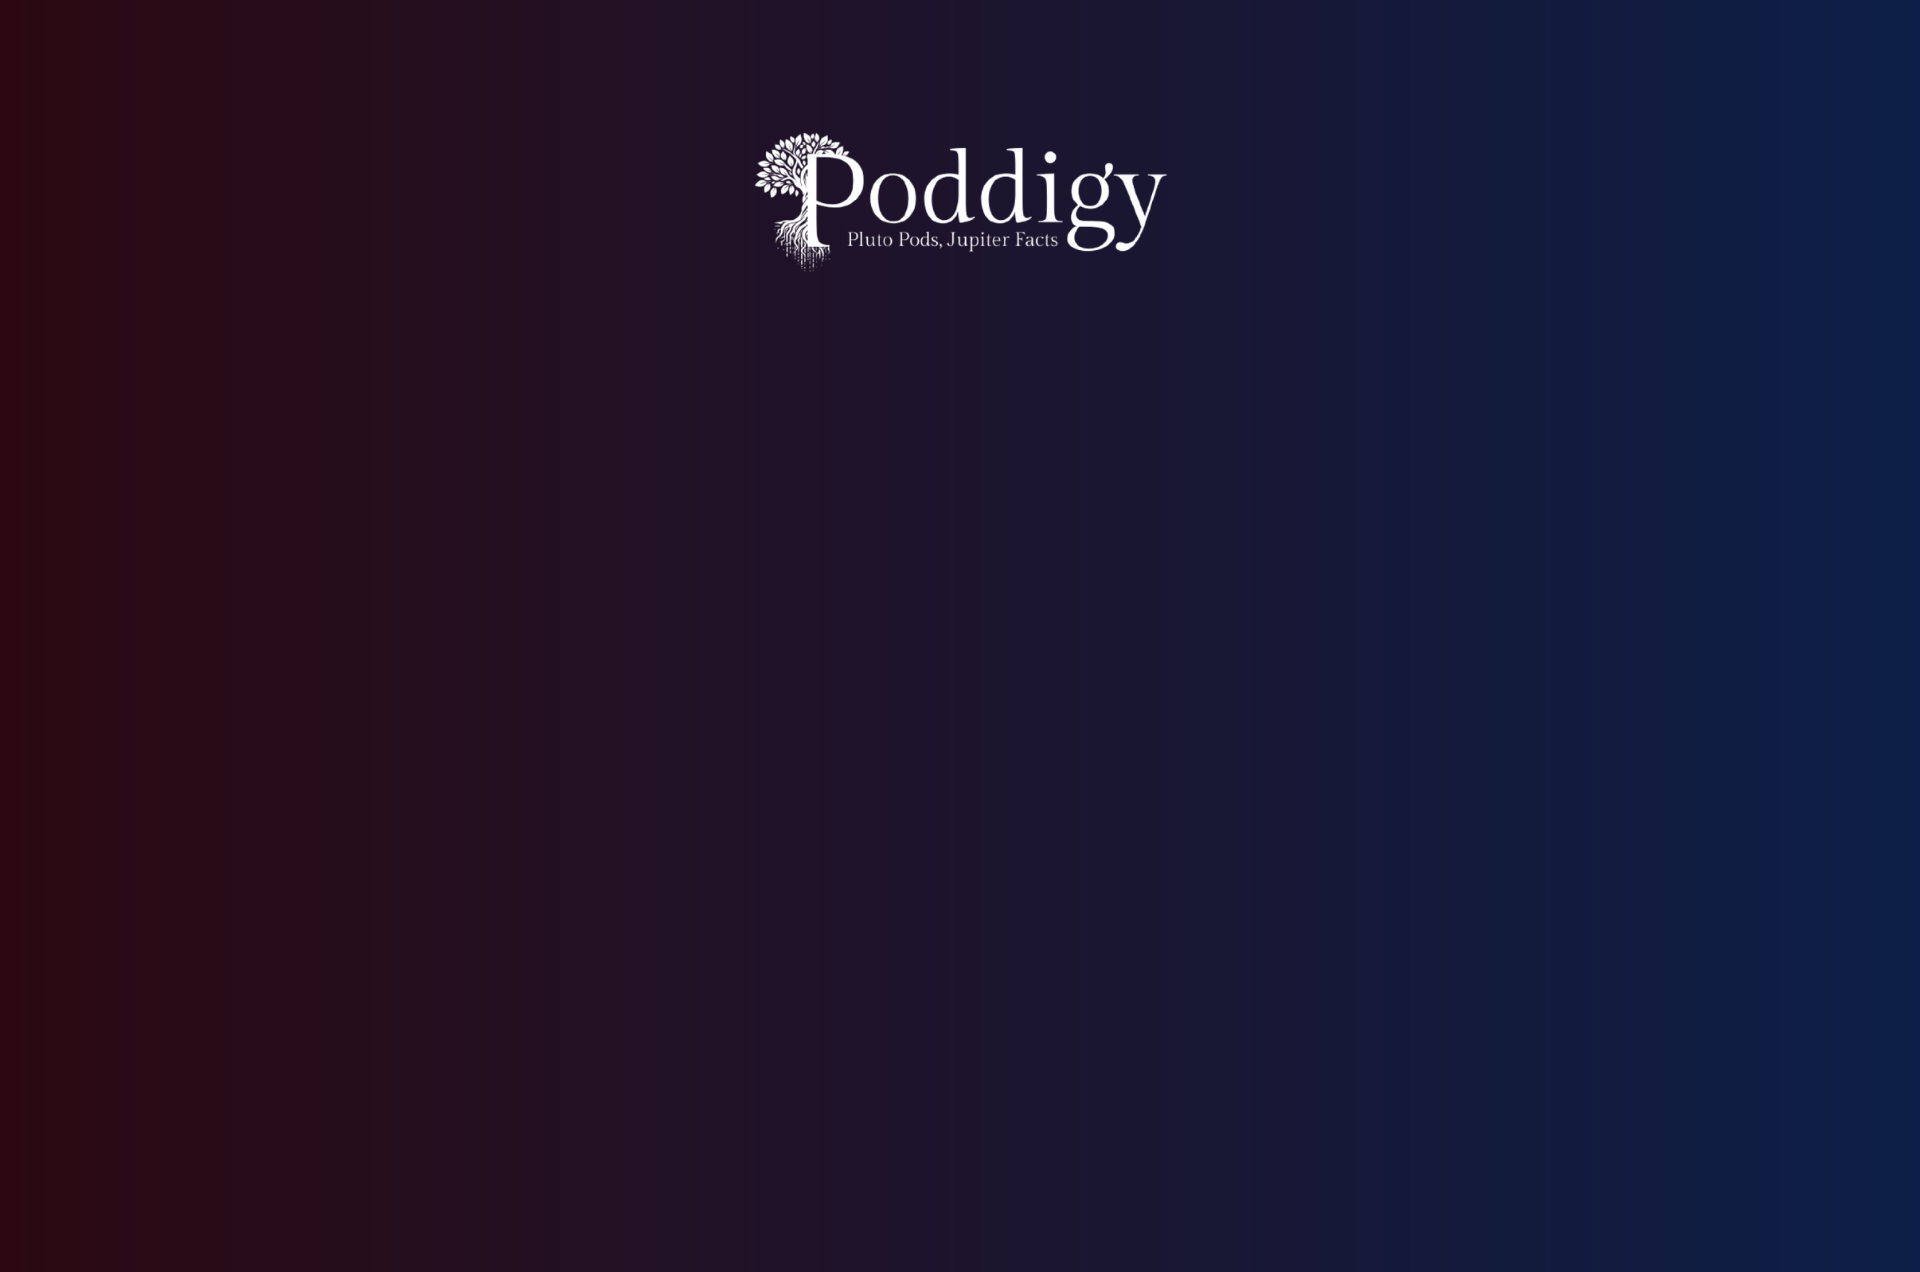
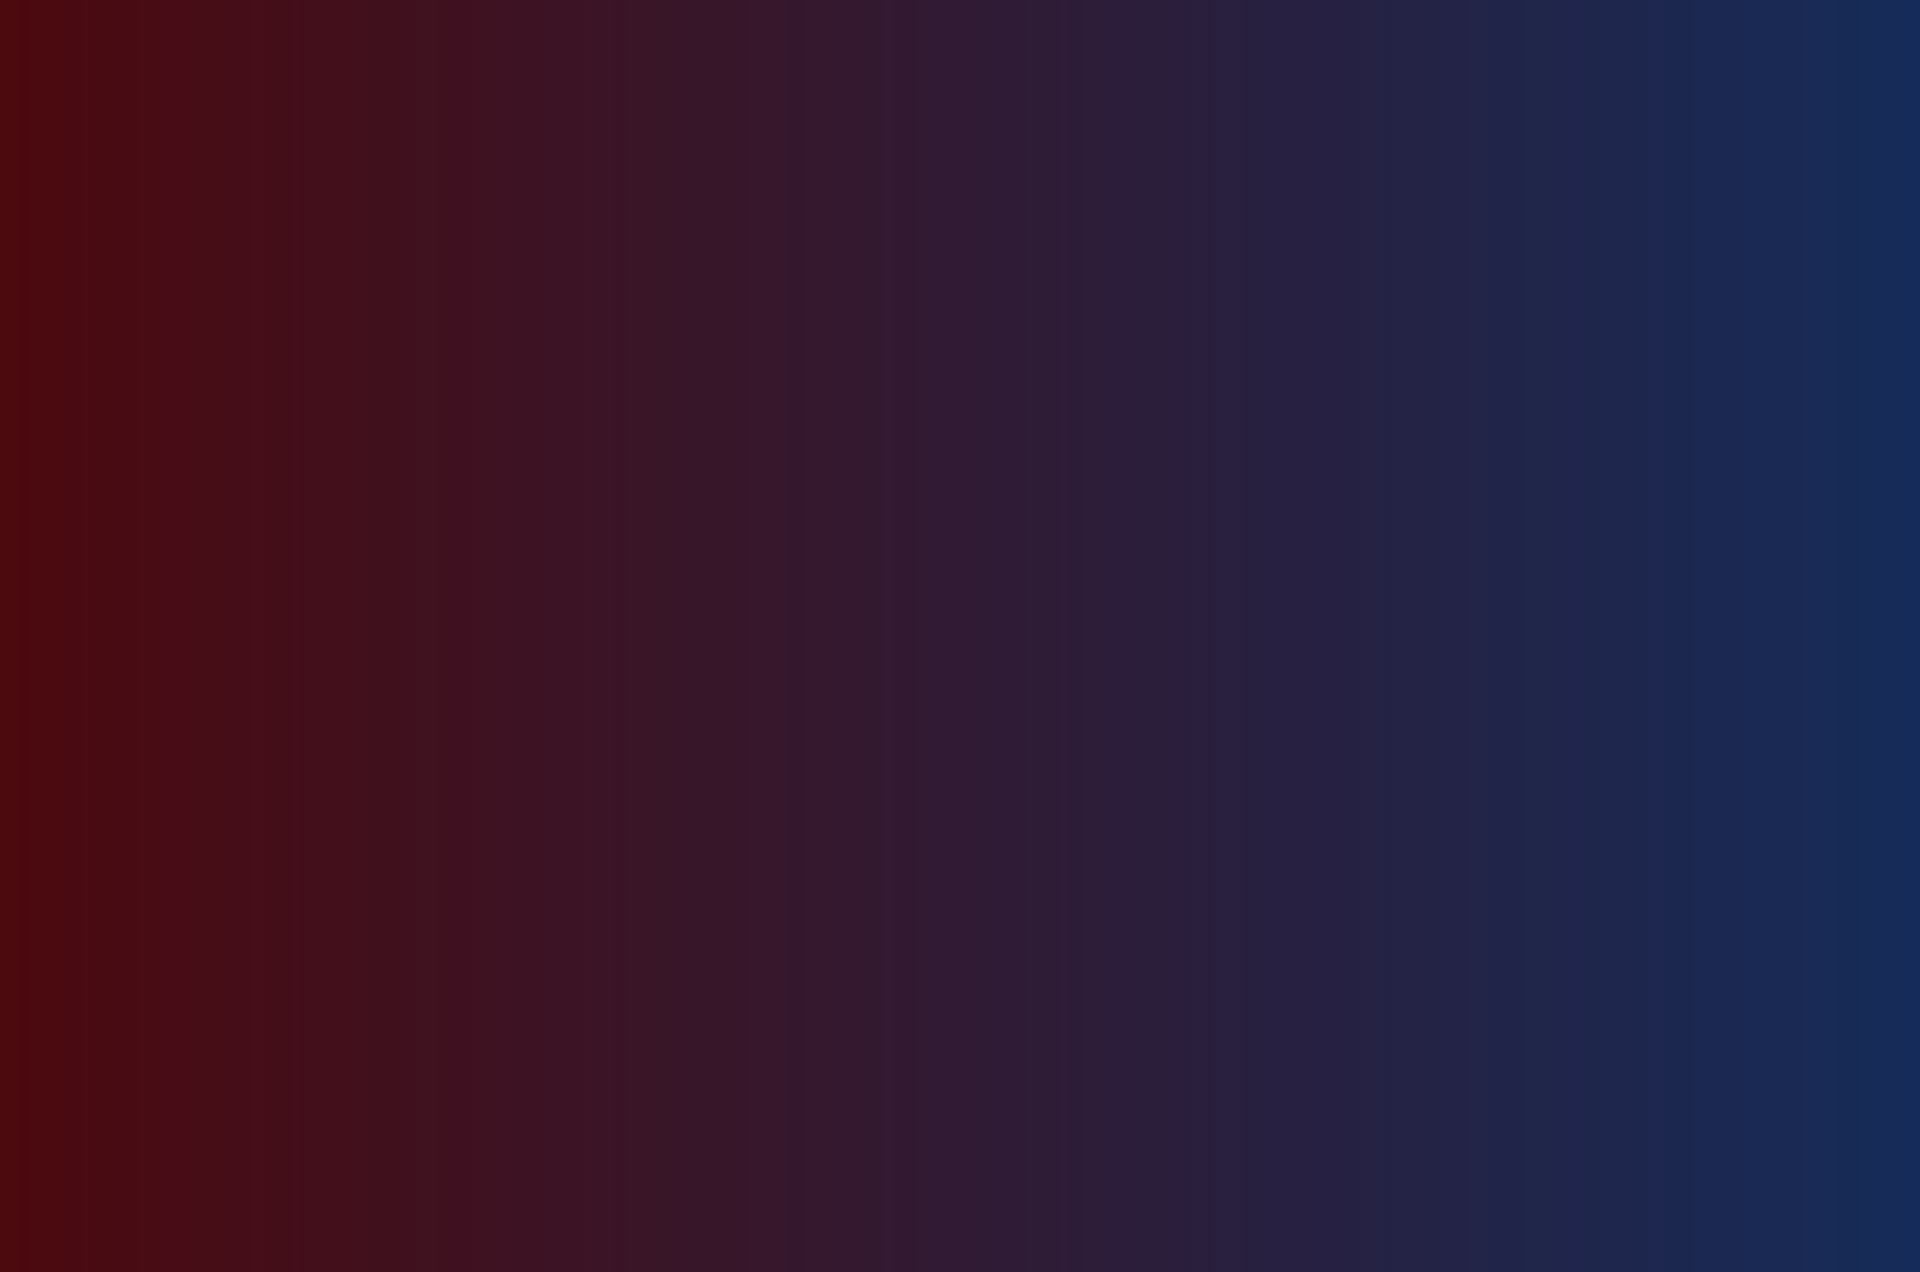
New Changes Staged

diff --git a/index.html b/index.html
@@ -45,29 +45,27 @@
 
     <!-- Hero Section -->
     <section id="hero" class="hero section transparent-background">
-
       <div class="container text-center" data-aos="fade-up" data-aos-delay="100">
         <div class="row justify-content-center">
           <div class="col-lg-8">
+            <!-- Add Logo Here -->
+            <img src="assets/img/logo4.png" alt="Poddigy Logo" class="hero-logo">
             <h2>We're Preparing Our Launchpad!<br></h2>
-            <!--<p>We are still working on our website. Stay tuned for updates!</p>-->
           </div>
-
           <div class="col-lg-5 hero-newsletter">
             <p>Join now, and stay updated once we're live!</p>
             <form id="subscribe-form" action="" method="post" class="php-email-form">
               <div class="newsletter-form">
-                <input type="email" name="email" id="email" required>
+                <input type="email" name="email" id="email" placeholder="Enter your email" required>
                 <input type="submit" value="Subscribe">
               </div>
             </form>
             <div id="form-response" style="display:none; color: green;">Thanks for subscribing!</div>
-            
           </div>
         </div>
       </div>
-
-    </section><!-- /Hero Section -->
+    </section>
+    
 
 
   </main>

diff --git a/assets/css/main.css b/assets/css/main.css
@@ -71,6 +71,21 @@ body::before {
   bottom: 0;
 }
 
+/* Hero Section Logo */
+.hero-logo {
+  max-width: 250px; /* Adjust based on your logo size */
+  margin-bottom: 20px; /* Space between logo and heading */
+}
+
+/* Responsive adjustments */
+@media (max-width: 768px) {
+  .hero-logo {
+    max-width: 190px; /* Adjust for smaller screens */
+    margin-bottom: 15px;
+  }
+}
+
+
 @media (min-width: 1366px) {
   body {
     background-attachment: fixed;
